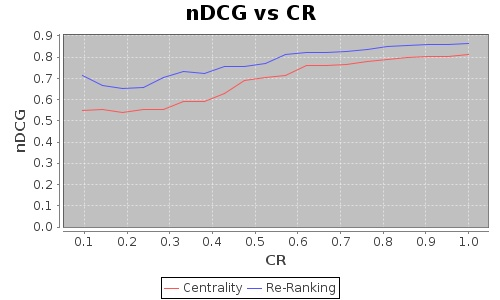
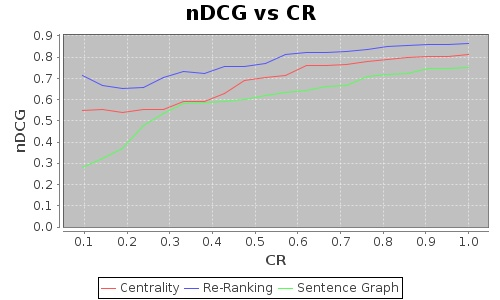
comparison with sentence graph summarisation added

diff --git a/OntologySummarization/src/fr/inria/wimmics/explanation/evaluation/test/DCGSurveyInference1Test.java b/OntologySummarization/src/fr/inria/wimmics/explanation/evaluation/test/DCGSurveyInference1Test.java
@@ -8,9 +8,11 @@ import java.util.ArrayList;
 import java.util.Collections;
 import java.util.Comparator;
 import java.util.HashMap;
+import java.util.HashSet;
 import java.util.List;
 import java.util.Map;
 import java.util.Map.Entry;
+import java.util.Set;
 
 import org.jfree.chart.ChartFactory;
 import org.jfree.chart.ChartUtilities;
@@ -22,9 +24,15 @@ import org.jfree.data.xy.XYSeriesCollection;
 import org.junit.AfterClass;
 import org.junit.BeforeClass;
 import org.junit.Test;
+import org.openrdf.model.Statement;
+import org.openrdf.repository.RepositoryException;
+import org.openrdf.rio.RDFHandlerException;
+import org.openrdf.rio.RDFParseException;
 
 import fr.inria.wimmics.explanation.JustificationProcessor;
 import fr.inria.wimmics.explanation.KnowledgeStatement;
+import fr.inria.wimmics.explanation.RDFSentenceGraph;
+import fr.inria.wimmics.explanation.SentenceGraphSummarizer;
 import fr.inria.wimmics.explanation.evaluation.CosineSimilarity;
 import fr.inria.wimmics.explanation.evaluation.DCGMeasure;
 import fr.inria.wimmics.explanation.evaluation.PrecisionRecall;
@@ -45,8 +53,13 @@ public class DCGSurveyInference1Test {
 	
 	static XYSeries soloCentralityNdcgCR = new XYSeries("Centrality");
 	static XYSeries soloReRankNdcgCR = new XYSeries("Re-Ranking");
+	static XYSeries sentenceGraphNdcgCR = new XYSeries("Sentence Graph");
+	
+	
 	static XYSeries soloReRankFMeasureCR = new XYSeries("Re-Ranking");
 	static XYSeries soloCentralityFMeasureCR = new XYSeries("Centrality");
+	static XYSeries sentenceGraphFMeasureCR = new XYSeries("Sentence Graph");
+
 	//static XYSeries humansNdcgCR = new XYSeries("Human average");
 	static DefaultCategoryDataset cosineDataset = new DefaultCategoryDataset();
 
@@ -61,6 +74,7 @@ public class DCGSurveyInference1Test {
 		XYSeriesCollection dataset = new XYSeriesCollection();
 		dataset.addSeries(soloCentralityNdcgCR);
 		dataset.addSeries(soloReRankNdcgCR);
+		dataset.addSeries(sentenceGraphNdcgCR);
 		//dataset.addSeries(humansNdcgCR);
 		
 		// Generate the ndcg vs cr graph
@@ -107,6 +121,8 @@ public class DCGSurveyInference1Test {
 		XYSeriesCollection fMeasureCRdataset = new XYSeriesCollection();
 		fMeasureCRdataset.addSeries(soloCentralityFMeasureCR);
 		fMeasureCRdataset.addSeries(soloReRankFMeasureCR);
+		fMeasureCRdataset.addSeries(sentenceGraphFMeasureCR);
+		
 		
 		
 		
@@ -219,7 +235,7 @@ public class DCGSurveyInference1Test {
 		List<RankEntry> reList = processorInf1.getAvgRankEntities(QUESTION1_NAME);
 		List<KnowledgeStatement> kstmts = summarySoloCentrality(FILE_JUSTIFICATION_INF1, ROOT_INF1);
 		List<RankEntry> sList = new ArrayList<RankEntry>();
-		System.out.println("Centrality");
+		System.out.println("NCG Centrality");
 		System.out.println("#####################################");
 		
 		//System.out.println(reList.size()+":"+kstmts.size());
@@ -230,12 +246,7 @@ public class DCGSurveyInference1Test {
 			sList.add(re);
 		}
 		
-		for(int p=2;p<=reList.size();p++) {
-			double d = DCGMeasure.computeNDCG(reList, sList, p);
-			double cr = (double) p / (double) reList.size();
-			System.out.println("NCG["+p+"]:"+d+ " CR:"+cr);
-			soloCentralityNdcgCR.add(cr,d);
-		}
+		computeNDCGMeasure(reList, sList, soloCentralityNdcgCR);
 	}
 	
 	
@@ -244,7 +255,7 @@ public class DCGSurveyInference1Test {
 		List<RankEntry> reList = processorInf1.getAvgRankEntities(QUESTION1_NAME);
 		List<KnowledgeStatement> kstmts = summarySoloReRank(FILE_JUSTIFICATION_INF1, ROOT_INF1);
 		List<RankEntry> sList = new ArrayList<RankEntry>();
-		System.out.println("ReRank");
+		System.out.println("NCG ReRank");
 		System.out.println("#####################################");		
 		//System.out.println(reList.size()+":"+kstmts.size());
 		for(KnowledgeStatement kst:kstmts) {
@@ -254,12 +265,8 @@ public class DCGSurveyInference1Test {
 			sList.add(re);
 		}
 		
-		for(int p=2;p<=reList.size();p++) {
-			double d = DCGMeasure.computeNDCG(reList, sList, p);
-			double cr = (double) p / (double) reList.size();
-			System.out.println("NCG["+p+"]:"+d+ " CR:"+cr);
-			soloReRankNdcgCR.add(cr,d);
-		}
+		
+		computeNDCGMeasure(reList, sList, soloReRankNdcgCR);
 	}
 	@Test
 	public void testFMeasureSoloReRank() throws Exception {
@@ -314,6 +321,77 @@ public class DCGSurveyInference1Test {
 		computeFmeasure(reList1, reList2, soloCentralityFMeasureCR);
 		
 
+	}	
+	
+	@Test
+	public void testtFMeasureSentenceGraph() throws RDFParseException, RDFHandlerException, RepositoryException, IOException {
+		
+		System.out.println("F-Measure Sentence Graph");
+		System.out.println("#####################################");
+		
+		List<RankEntry> reList1 = processorInf1.getAvgRankEntities(QUESTION1_NAME);
+		
+		List<RankEntry> reList2 = summarySentenceGraph(FILE_JUSTIFICATION_INF1, ROOT_INF1);
+		
+		computeFmeasure(reList1, reList2, sentenceGraphFMeasureCR);
+		
+	}
+	
+	
+	@Test
+	public void testSentenceGraph() throws Exception {
+		List<RankEntry> reList = processorInf1.getAvgRankEntities(QUESTION1_NAME);
+		List<RankEntry> sList = summarySentenceGraph(FILE_JUSTIFICATION_INF1, ROOT_INF1);
+		System.out.println("NCG Sentence Graph");
+		System.out.println("#####################################");
+		computeNDCGMeasure(reList, sList, sentenceGraphNdcgCR);
+		
+
+	}
+	
+	public void computeNDCGMeasure(List<RankEntry> reList, List<RankEntry> sList, XYSeries series) {
+		
+		for(int p=2;p<=reList.size();p++) {
+			double d = DCGMeasure.computeNDCG(reList, sList, p);
+			double cr = (double) p / (double) reList.size();
+			System.out.println("NCG["+p+"]:"+d+ " CR:"+cr);
+			series.add(cr,d);
+			
+		}		
+	}
+	
+	public List<RankEntry> summarySentenceGraph(String justificationFile, String rootStmtId) throws RDFParseException, RDFHandlerException, RepositoryException, IOException {
+		//List<KnowledgeStatement> stmts = new ArrayList<KnowledgeStatement>();
+		JustificationProcessor jp = new JustificationProcessor();
+		jp.parseJustificationFile(justificationFile,"http://www.example.com/" );
+		List<KnowledgeStatement> originalKStatements = jp.getKnStatements();
+		
+		Set<Statement> statementSet = new HashSet<Statement>();
+		
+		for(KnowledgeStatement kn:originalKStatements) {
+			
+			Statement st = kn.getStatement();
+			statementSet.add(st);
+		}
+		
+		RDFSentenceGraph rdfSentenceGraph = new RDFSentenceGraph(statementSet, 0.5);
+		
+
+		SentenceGraphSummarizer summmarizer = new SentenceGraphSummarizer(rdfSentenceGraph);
+		
+		List<Statement> summary = summmarizer.getAllreRankedStatements();
+		List<RankEntry> res = new ArrayList<RankEntry>();
+		for(Statement st:summary) {
+			String statementId = st.getContext().stringValue();
+			if(statementId.equals(rootStmtId)) continue;
+			
+			RankEntry re = new RankEntry();
+			String name = getStatementName(statementId);
+			re.setName(name);
+			res.add(re);
+		}
+		return res;
+		
 	}	
 	public Map<Double, Double> computeFmeasure(List<RankEntry> reList1, List<RankEntry> reList2, XYSeries series) {
 		Map<Double, Double> res = new HashMap<Double, Double>();
@@ -409,7 +487,9 @@ public class DCGSurveyInference1Test {
 		}
 
 		return stmts;
-	}	
+	}
+	
+
 	
 
 	class EntryJudgmentDscCmp implements Comparator<RankEntry> {

diff --git a/OntologySummarization/src/fr/inria/wimmics/explanation/SentenceGraphSummarizer.java b/OntologySummarization/src/fr/inria/wimmics/explanation/SentenceGraphSummarizer.java
@@ -2,6 +2,7 @@ package fr.inria.wimmics.explanation;
 
 
 
+import java.util.ArrayList;
 import java.util.Collections;
 import java.util.Comparator;
 import java.util.HashMap;
@@ -194,6 +195,21 @@ public class SentenceGraphSummarizer {
 	    
 		return statements;
 		
+	}
+	public List<Statement> getAllreRankedStatements() {
+		List<Statement> statements = new ArrayList<Statement>();
+		List<RDFSentenceWithRank> reRanked = reRank();
+
+		for(RDFSentenceWithRank sent:reRanked) {
+
+	    	statements.addAll(sent.getSentence().getStatements());
+
+	    	//System.out.println(sent.getSentence().getStatements().toString());
+			//System.out.println("score:"+sent.getReRankScore());
+	    
+	    }
+		
+		return statements;
 	}
 	
 	private double reward(RDFSentenceWithRank i, Set<RDFSentenceWithRank> S) {

diff --git a/OntologySummarization/src/fr/inria/wimmics/explanation/JustificationProcessor.java b/OntologySummarization/src/fr/inria/wimmics/explanation/JustificationProcessor.java
@@ -61,7 +61,9 @@ public class JustificationProcessor {
 	
 	ArrayList<KnowledgeStatement> knStatements = new ArrayList<KnowledgeStatement>();
 	
-	
+	public ArrayList<KnowledgeStatement> getKnStatements() {
+		return knStatements;
+	}
 	
 	public void parseJustificationFile(String filePath,String baseURI) throws RDFParseException, RDFHandlerException, IOException, RepositoryException {
 		
